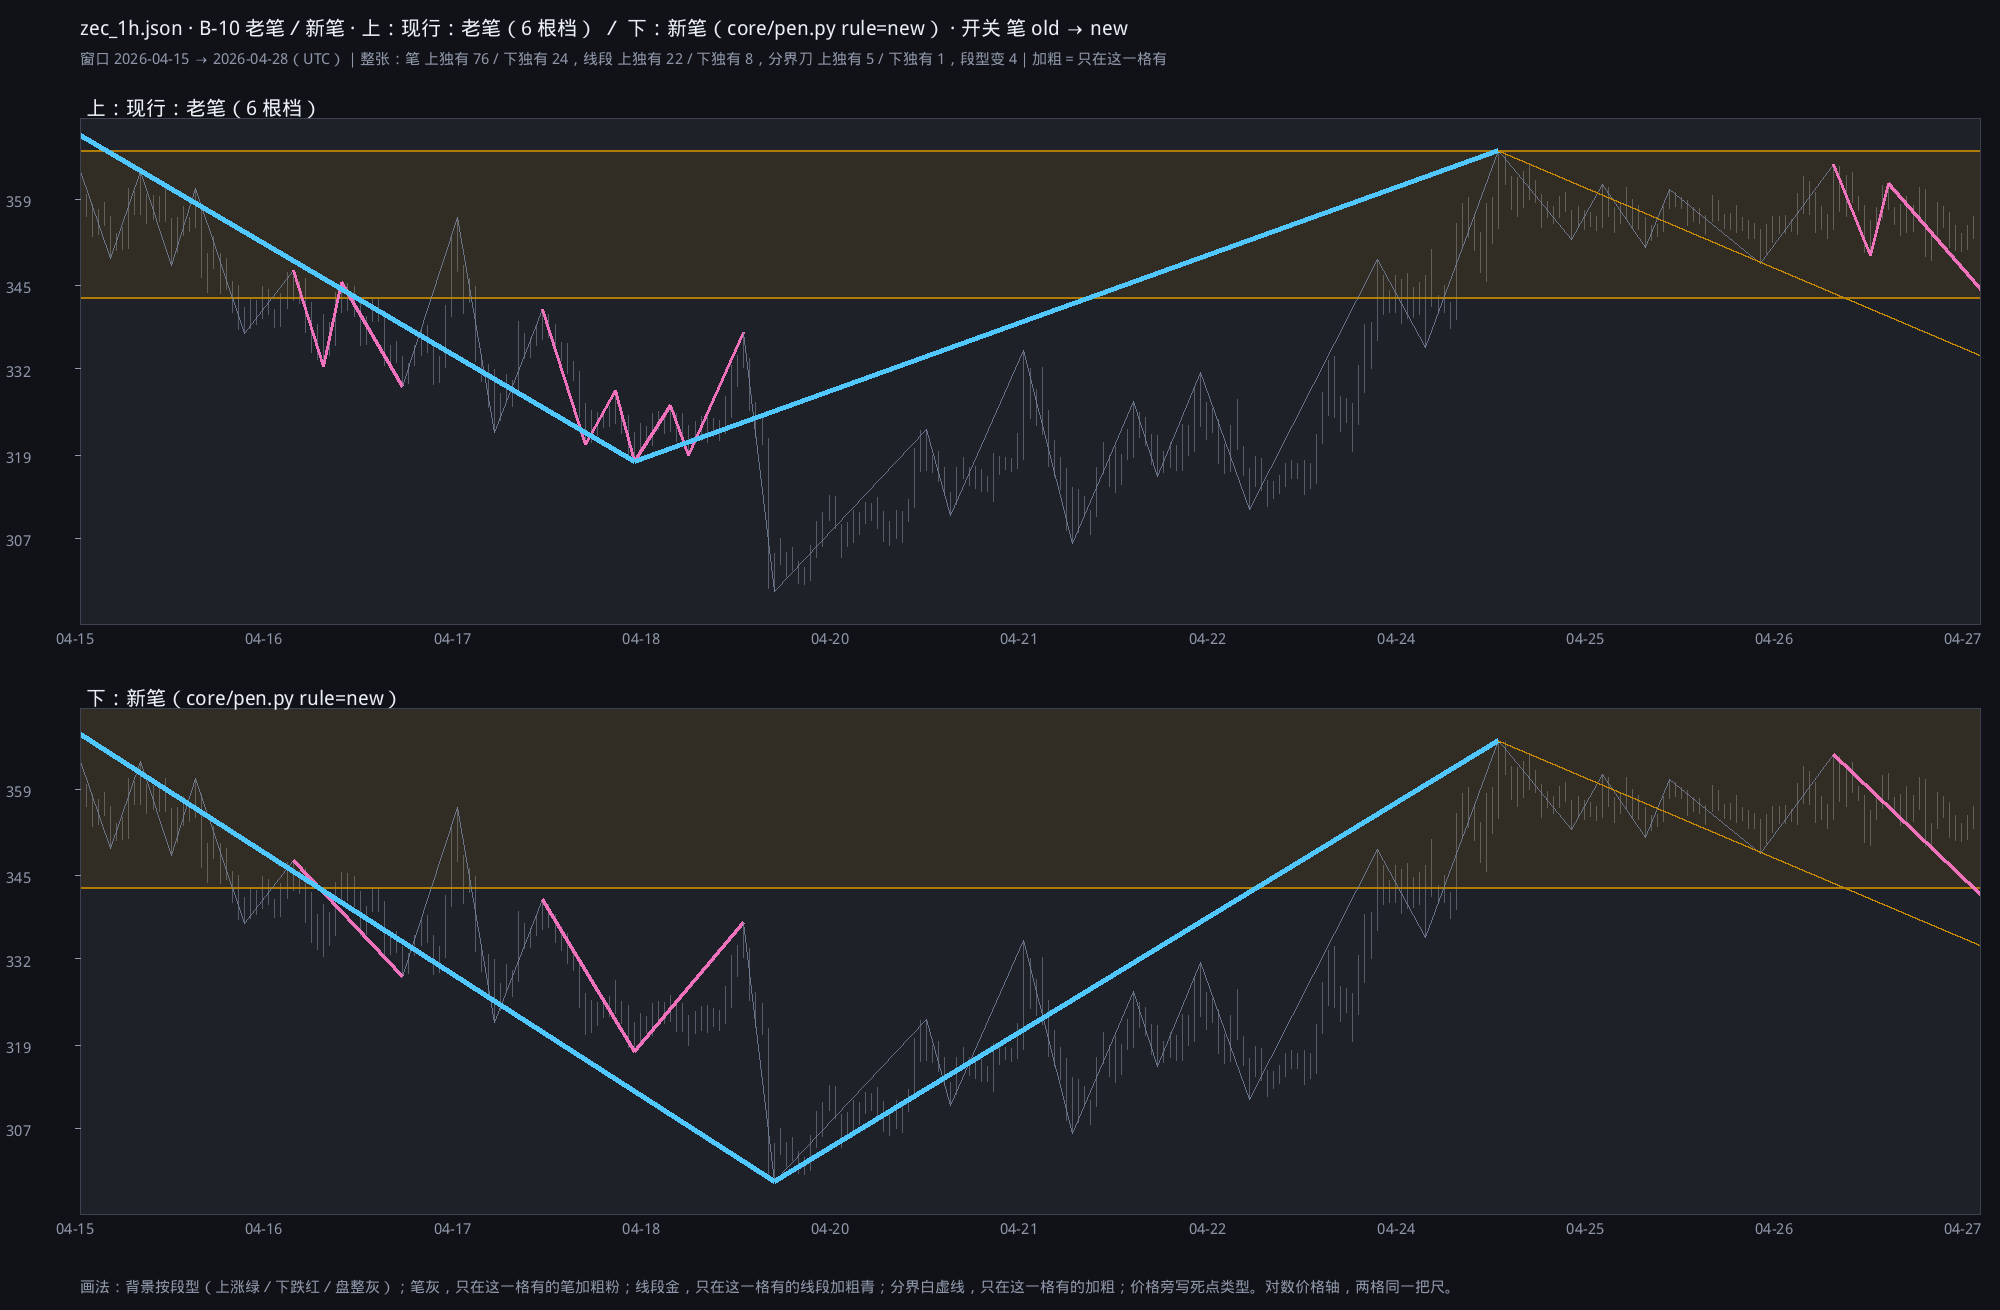
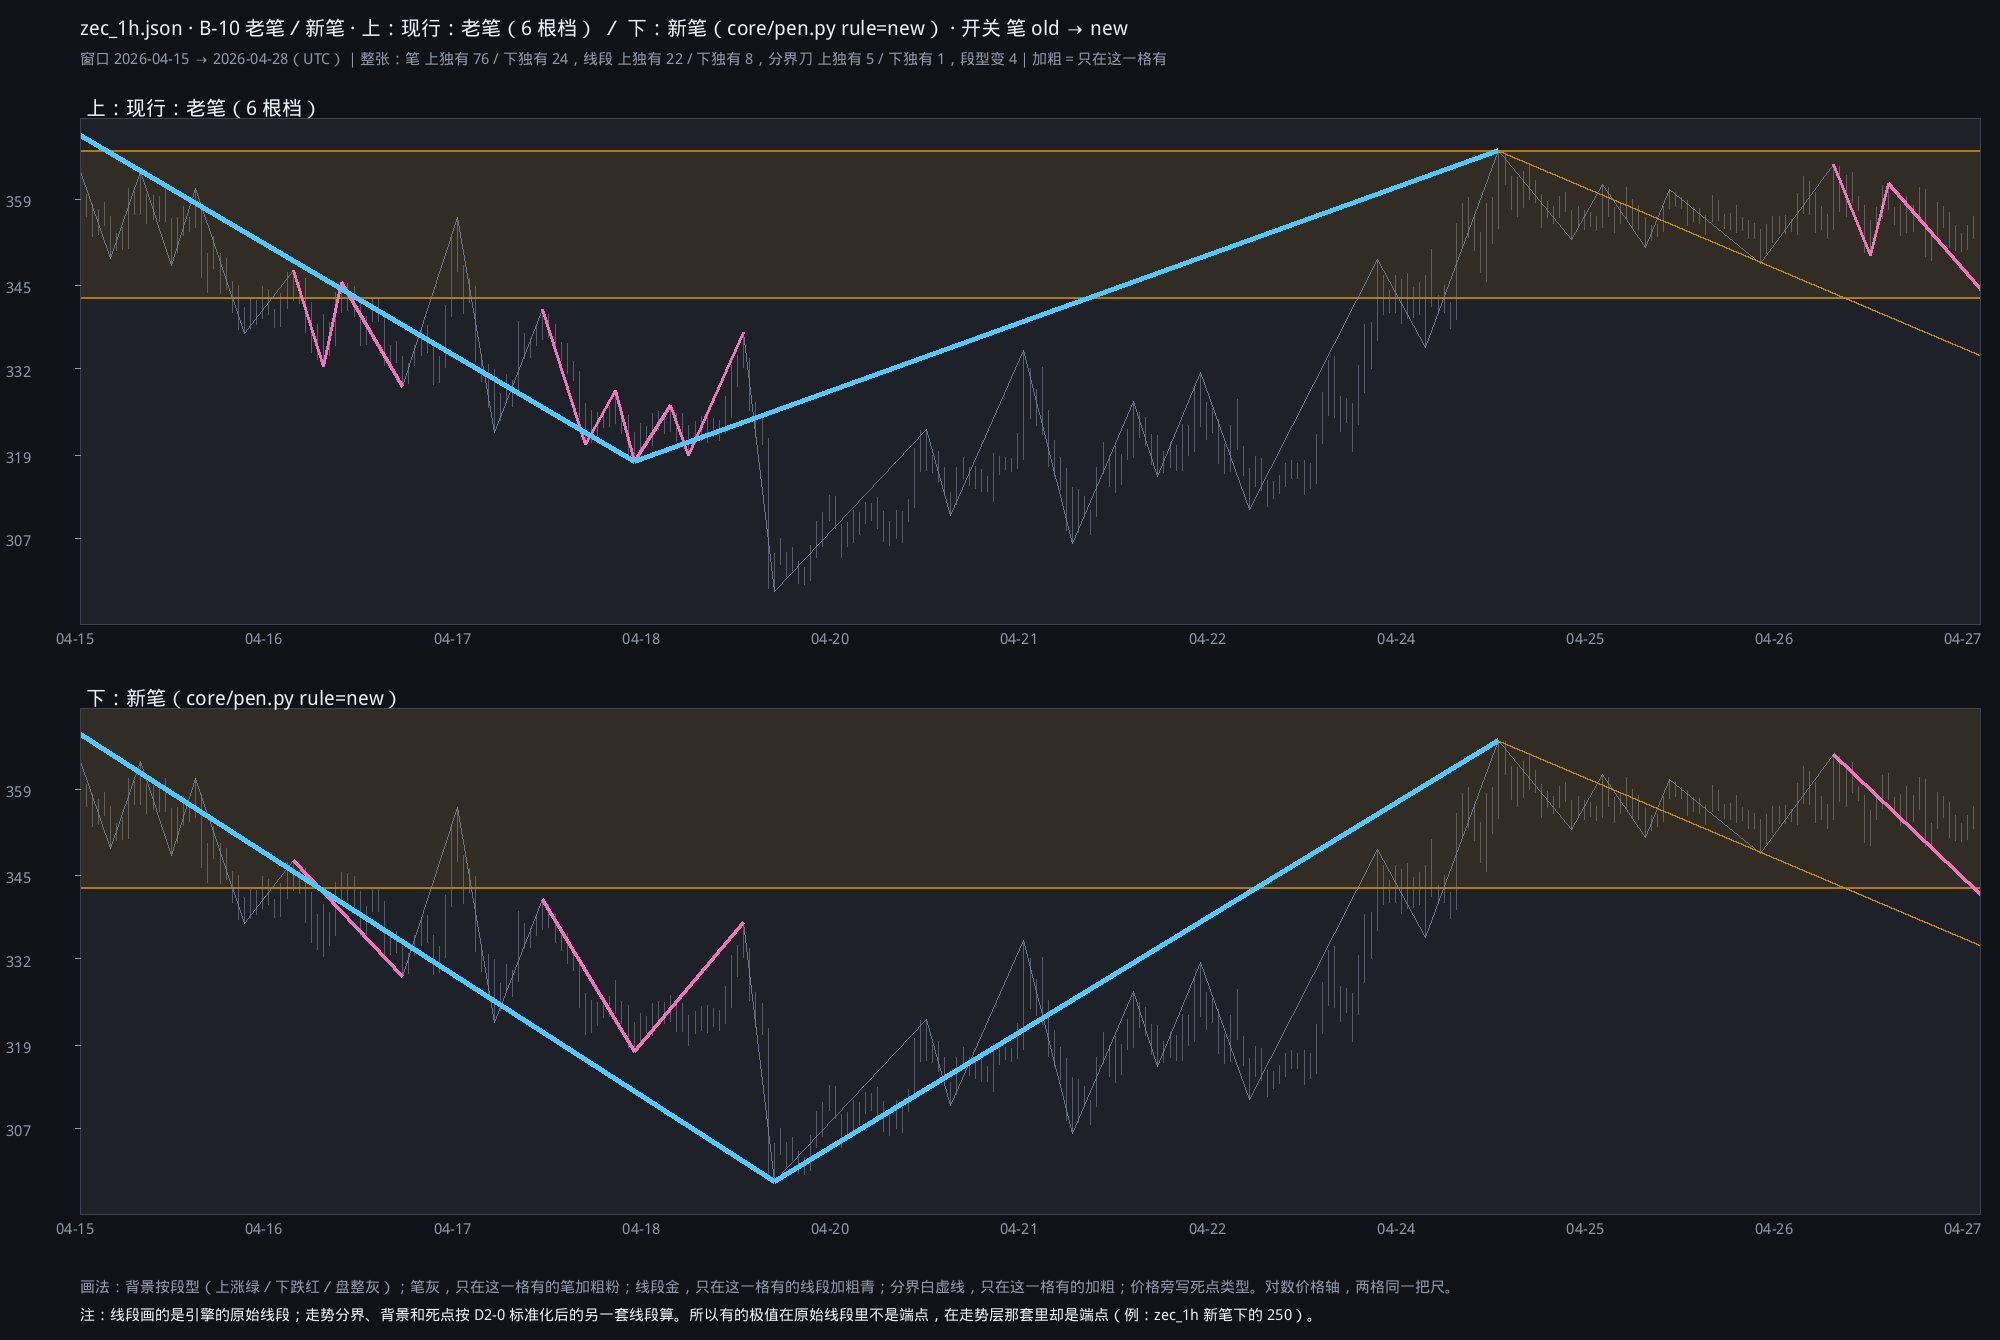
notes(r1): r1_fig 加 --note；B-10 三张图加图注「线段画原始线段，走势层按 D2-0 标准化那套算」（Nova 05:15）

diff --git a/notes/r1/r1_fig.py b/notes/r1/r1_fig.py
@@ -8,7 +8,7 @@ ap.add_argument('--root', required=True); ap.add_argument('--flag', action='appe
 ap.add_argument('--file'); ap.add_argument('--out'); ap.add_argument('--rank', action='store_true')
 ap.add_argument('--from', dest='frm'); ap.add_argument('--to')
 ap.add_argument('--label-a', default='现行：非同级别分解'); ap.add_argument('--label-b', default='同级别分解（开关）')
-ap.add_argument('--title', default='前后图'); ap.add_argument('--pen', default='old'); ap.add_argument('--pen-b', default=None, help='下格换一种笔（old/new），B-10 老笔新笔用')
+ap.add_argument('--title', default='前后图'); ap.add_argument('--note', default='', help='图注再加一行（写在画法说明下面）'); ap.add_argument('--pen', default='old'); ap.add_argument('--pen-b', default=None, help='下格换一种笔（old/new），B-10 老笔新笔用')
 a = ap.parse_args()
 sys.path[:0] = [a.root]; os.chdir(a.root)
 import config
@@ -75,7 +75,7 @@ else:  # 自动：包住所有变了的刀和段，两边各留 15%
 font = lambda s: ImageFont.truetype(config._pick_font(), s)
 F, Fs = font(20), font(15)
 W, PH, ML, MR = 2000, 560, 80, 20
-im = Image.new('RGB', (W, 90 + 2 * (PH + 30) + 40), BG); d = ImageDraw.Draw(im)
+im = Image.new('RGB', (W, 90 + 2 * (PH + 30) + (70 if a.note else 40)), BG); d = ImageDraw.Draw(im)
 win = bars[b0:b1 + 1]; lo = min(x['l'] for x in win) * 0.985; hi = max(x['h'] for x in win) * 1.015
 LL, LH = math.log(lo), math.log(hi)
 d.text((ML, 14), f'{a.file} · {a.title} · 上：{a.label_a} ／ 下：{a.label_b} · 开关 {" ".join(a.flag) or ("笔 " + a.pen + " → " + a.pen_b)}', fill=TX, font=F)
@@ -130,4 +130,5 @@ def panel(k, R, other, tag):
 panel(0, A, B, '上：' + a.label_a); panel(1, B, A, '下：' + a.label_b)
 d.text((ML, 90 + 2 * (PH + 30) + 6), '画法：背景按段型（上涨绿／下跌红／盘整灰）；笔灰，只在这一格有的笔加粗粉；线段金，只在这一格有的线段加粗青；分界白虚线，只在这一格有的加粗；价格旁写死点类型。对数价格轴，两格同一把尺。',
        fill=MU, font=Fs)
+if a.note: d.text((ML, 90 + 2 * (PH + 30) + 34), '注：' + a.note, fill=TX, font=Fs)
 im.save(a.out); print('saved', a.out, im.size, dd)
